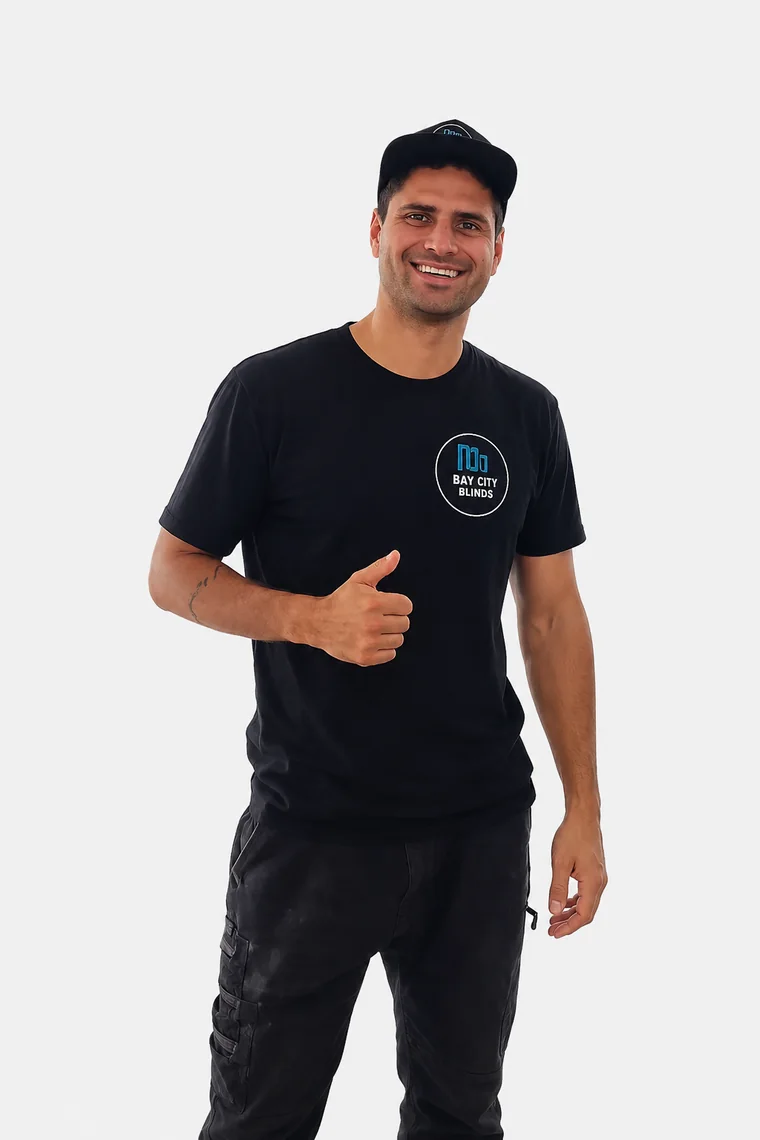
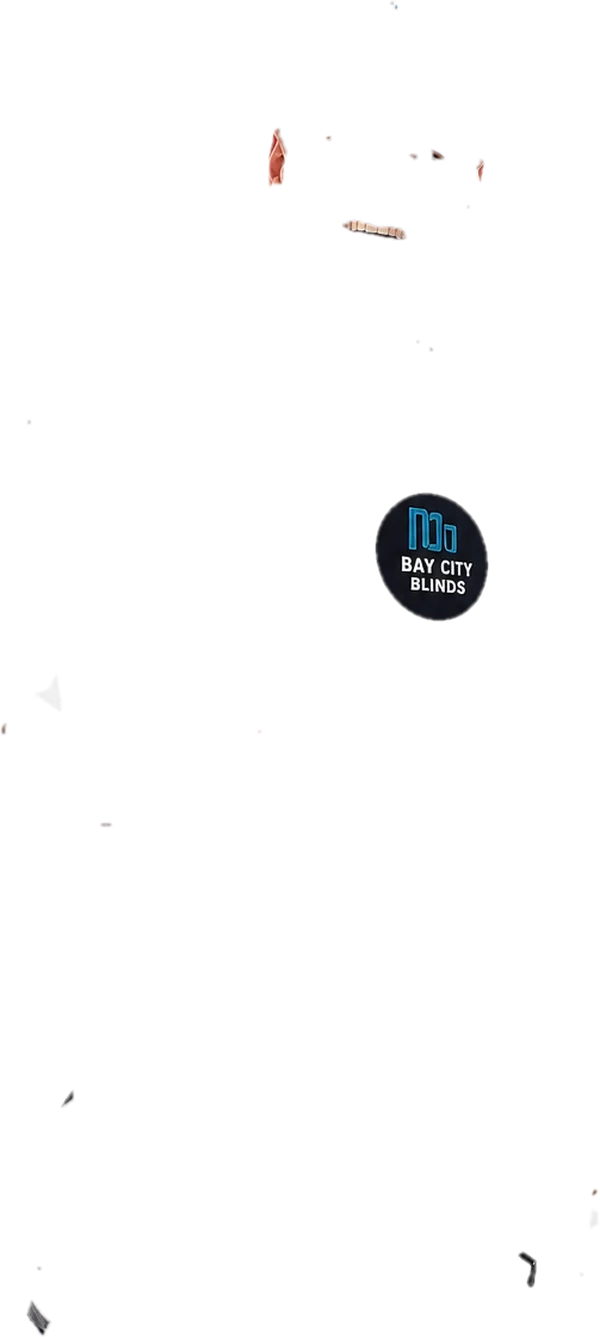
ud

diff --git a/src/styles/global.css b/src/styles/global.css
@@ -275,3 +275,57 @@ footer .brand small{color:var(--turq)}
 .step .step-ic{width:46px;height:46px;border-radius:13px;background:var(--wash);display:grid;place-items:center;margin-bottom:.7rem}
 .step .step-ic svg{width:24px;height:24px;color:var(--teal-deep)}
 .step .num{position:absolute;top:14px;right:16px;width:30px;height:30px;font-size:.95rem;background:var(--turq);color:#fff;border-radius:9px;margin:0}
+
+/* ===== v3: hero van scene (homepage) + cleaner transparent cutout ===== */
+.hero-scene{position:relative;max-width:560px;margin:0 auto}
+.hero-scene img{max-height:none;width:100%;max-width:560px;height:auto;margin:0 auto;
+  -webkit-mask-image:none;mask-image:none;filter:drop-shadow(0 24px 34px rgba(11,43,51,.22))}
+.hero-scene .badge-review{left:2%;top:30%}
+.hero-scene .name-tag{bottom:9%}
+@media(max-width:960px){.hero-scene{max-width:440px}}
+/* transparent cutout on other heroes: sits cleanly on the blob, no card box */
+.hero-photo img{background:transparent}
+
+/* ===== v4: split hero, measure & quote form above the fold + pro stage ===== */
+.heroX{background:linear-gradient(180deg,#ffffff 0%, #eefafc 100%)}
+.heroX-grid{display:grid;grid-template-columns:1.02fr .98fr;gap:2.2rem;align-items:center;padding:2.6rem 22px 3.2rem}
+.heroX h1{font-size:clamp(2rem,3.9vw,3.05rem)}
+.heroX .sub{margin:.9rem 0 1.1rem;max-width:34rem}
+.heroX .trust-chips{margin-top:0}
+.hero-formwrap{margin-top:1.5rem;max-width:540px}
+.hero-formwrap .lead-card{box-shadow:0 26px 60px -30px rgba(11,43,51,.5)}
+
+.hero-stage{position:relative;border-radius:26px;overflow:hidden;min-height:560px;align-self:stretch;
+  background:radial-gradient(120% 92% at 50% 4%, #eafcff 0%, #c3edf4 48%, #7fd6e2 100%);
+  box-shadow:0 34px 70px -34px rgba(11,43,51,.55), inset 0 0 0 1px rgba(255,255,255,.4)}
+/* NOTE: to add Jackson's real van, set a background-image on .hero-stage
+   (or add an <img> layer with z-index:1) — it sits behind .stage-jackson (z-index:2). */
+.stage-slats{position:absolute;inset:0;background:repeating-linear-gradient(0deg, rgba(255,255,255,0) 0 26px, rgba(255,255,255,.22) 26px 28px);opacity:.5;pointer-events:none}
+.stage-floor{position:absolute;left:0;right:0;bottom:0;height:34%;background:linear-gradient(180deg, rgba(11,108,126,0) 0%, rgba(11,108,126,.18) 100%)}
+.stage-shadow{position:absolute;left:50%;bottom:4%;transform:translateX(-50%);width:56%;height:44px;background:radial-gradient(closest-side, rgba(6,30,36,.42), transparent 72%);filter:blur(6px);z-index:1}
+.stage-jackson{position:absolute;left:50%;bottom:0;transform:translateX(-50%);height:98%;width:auto;filter:drop-shadow(0 22px 26px rgba(11,43,51,.28));z-index:2}
+.hero-stage .badge-review{position:absolute;left:5%;top:22%;z-index:3}
+.hero-stage .pill-come{position:absolute;right:5%;top:9%;z-index:3}
+.hero-stage .name-tag{position:absolute;bottom:6%;left:50%;transform:translateX(-50%);z-index:3}
+@media(max-width:960px){
+  .heroX-grid{grid-template-columns:1fr;gap:1.5rem}
+  .hero-stage{min-height:400px;order:-1}
+  .hero-formwrap{max-width:none}
+  .hero-stage .badge-review,.hero-stage .pill-come{display:none}
+}
+
+/* ===== v5: real van photography ===== */
+.hero-photo-card{position:relative;border-radius:24px;overflow:hidden;align-self:stretch;min-height:520px;
+  box-shadow:0 34px 70px -32px rgba(11,43,51,.55), inset 0 0 0 1px rgba(255,255,255,.35)}
+.hero-photo-card img{width:100%;height:100%;object-fit:cover;display:block;position:absolute;inset:0}
+.hero-photo-card .badge-review{position:absolute;left:5%;top:6%;z-index:3}
+.hero-photo-card .pill-come{position:absolute;right:5%;top:6%;z-index:3}
+.hero-photo-card .name-tag{position:absolute;bottom:5%;left:50%;transform:translateX(-50%);z-index:3}
+.hero-photo-card::after{content:"";position:absolute;inset:auto 0 0 0;height:26%;
+  background:linear-gradient(180deg,transparent,rgba(11,43,51,.34));pointer-events:none}
+@media(max-width:960px){.hero-photo-card{min-height:420px}}
+
+.showroom .van-photo{border-radius:18px;overflow:hidden;box-shadow:0 24px 50px -24px rgba(0,0,0,.5);
+  border:1px solid rgba(255,255,255,.14)}
+.showroom .van-photo img{width:100%;height:100%;object-fit:cover;display:block}
+@media(max-width:960px){.showroom .van-photo{display:block;margin-top:1.4rem}}